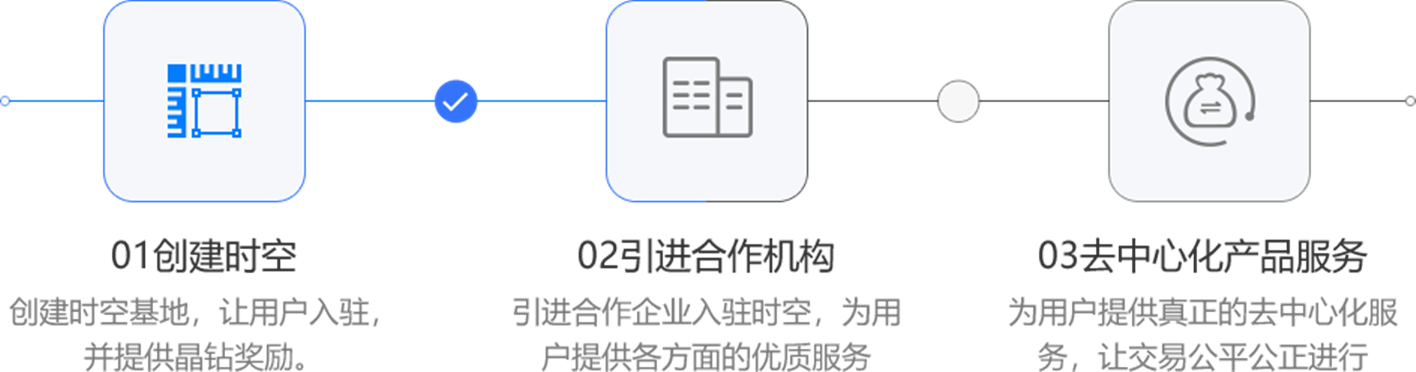
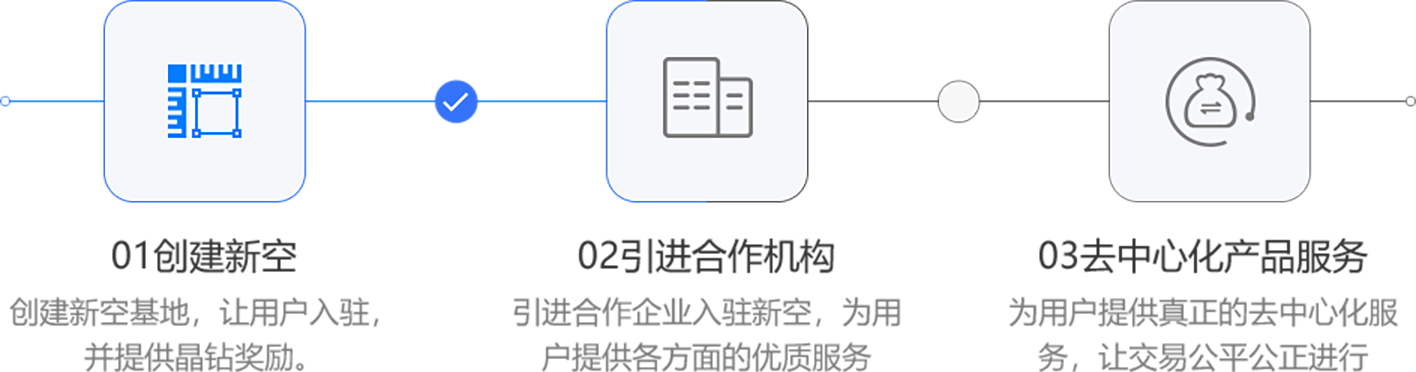
agreement

diff --git a/docs/index.html b/docs/index.html
@@ -2,10 +2,10 @@
 <html>
 <head>
     <meta http-equiv="Content-Type" content="text/html; charset=utf-8">
-    <meta name="keyword" content="时空-基于区块链的价值应用空间 space_time">
-    <meta name="description" content="时空-基于区块链的价值应用空间 spacekong spacekong.com space_time">
+    <meta name="keyword" content="新空-基于区块链的价值应用空间 space_time">
+    <meta name="description" content="新空-基于区块链的价值应用空间 spacekong spacekong.com space_time">
     <meta name="author" content="Zztop">
-    <title>时空-基于区块链的价值应用空间 spacekong space_time</title>
+    <title>新空-基于区块链的价值应用空间 spacekong space_time</title>
     <link href="https://cdn.bootcss.com/bootstrap/3.3.7/css/bootstrap.min.css" rel="stylesheet">
     <link href="css/index_style.css" rel="stylesheet" type="text/css">
     <link rel="shortcut icon" href="img/img_logo.png" type="image/x-icon">
@@ -20,21 +20,21 @@
     <div id="content">
         <div class="total">
             <div>
-                <p class="title_text">时空APP</p>
+                <p class="title_text">新空APP</p>
                 <div class="title_bottom"></div>
             </div>
             <img srcset="img/img_introduce.png 1x, img/img_introduce_big.png 2x" src="img/img_introduce.png" alt="introduce">
         </div>
         <div class="total">
               <div>
-                  <p class="title_text">时空数据技术</p>
+                  <p class="title_text">新空数据技术</p>
                   <div class="title_bottom"></div>
               </div>
             <img srcset="img/img_technical.png 1x, img/img_technical_big.png 2x" src="img/img_technical.png" alt="technical">
         </div>
         <div class="total">
             <div>
-                <p class="title_text">时空发展布局</p>
+                <p class="title_text">新空发展布局</p>
                 <div class="title_bottom"></div>
             </div>
             <img srcset="img/img_development.png 1x, img/img_development_big.png 2x" src="img/img_development.png" alt="development">
